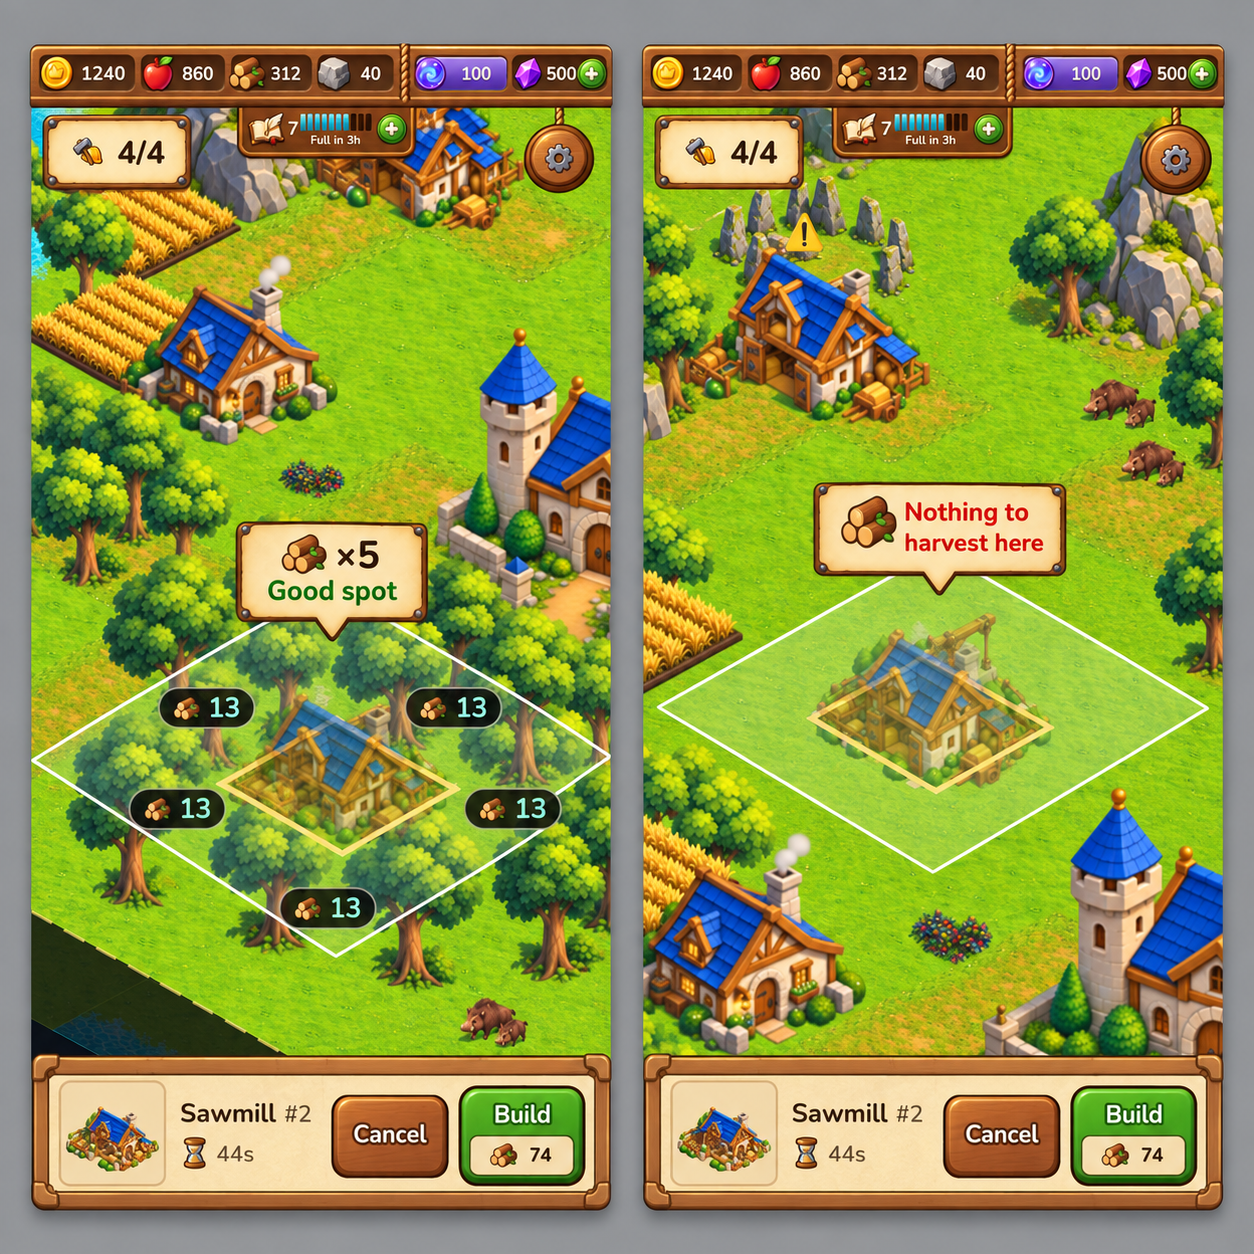
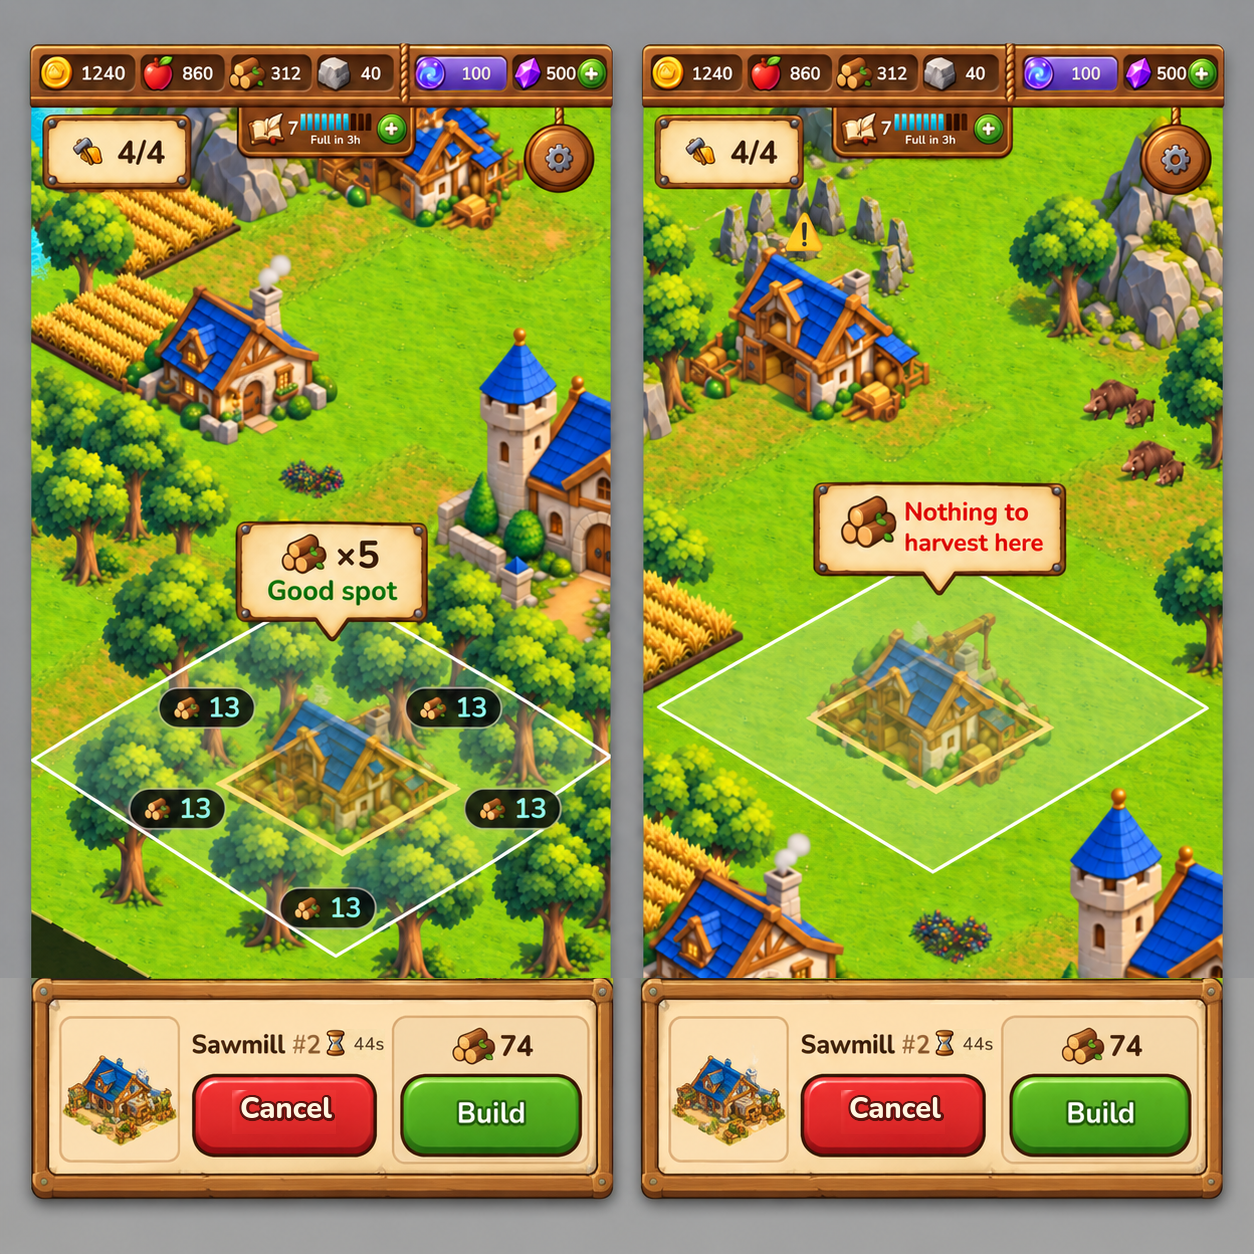
art(mockups): placement's bar uses the kit's buttons — red paint Cancel, a priced Build at the default size

diff --git a/Docs/art/ui-menus-redesign.md b/Docs/art/ui-menus-redesign.md
@@ -1016,10 +1016,12 @@ Reference: `mockups/m49-placement.png`.
 
 **The bar** — one strip across the bottom:
 
-- The level-1 sprite, the name and ⏳ the build time.
-- **Cancel** (wood) — back to the Build menu (§5.5).
-- **Build** (primary) — the price on its face, as everywhere a price is
-  quoted.
+- Left: the level-1 sprite on its tile.
+- Right of it, the name and ⏳ the build time on one line, and under them the
+  two buttons, bottom-aligned, at the kit's default label-button size:
+  - **Cancel** — red paint (`destructive`) — back to the Build menu (§5.5);
+  - **Build** — primary, a priced button (§6.4): the cost above the slab
+    on its own darker section.
 - No legal cell anywhere: Build is disabled and the bar says *Nowhere legal
   to build it*.
 
